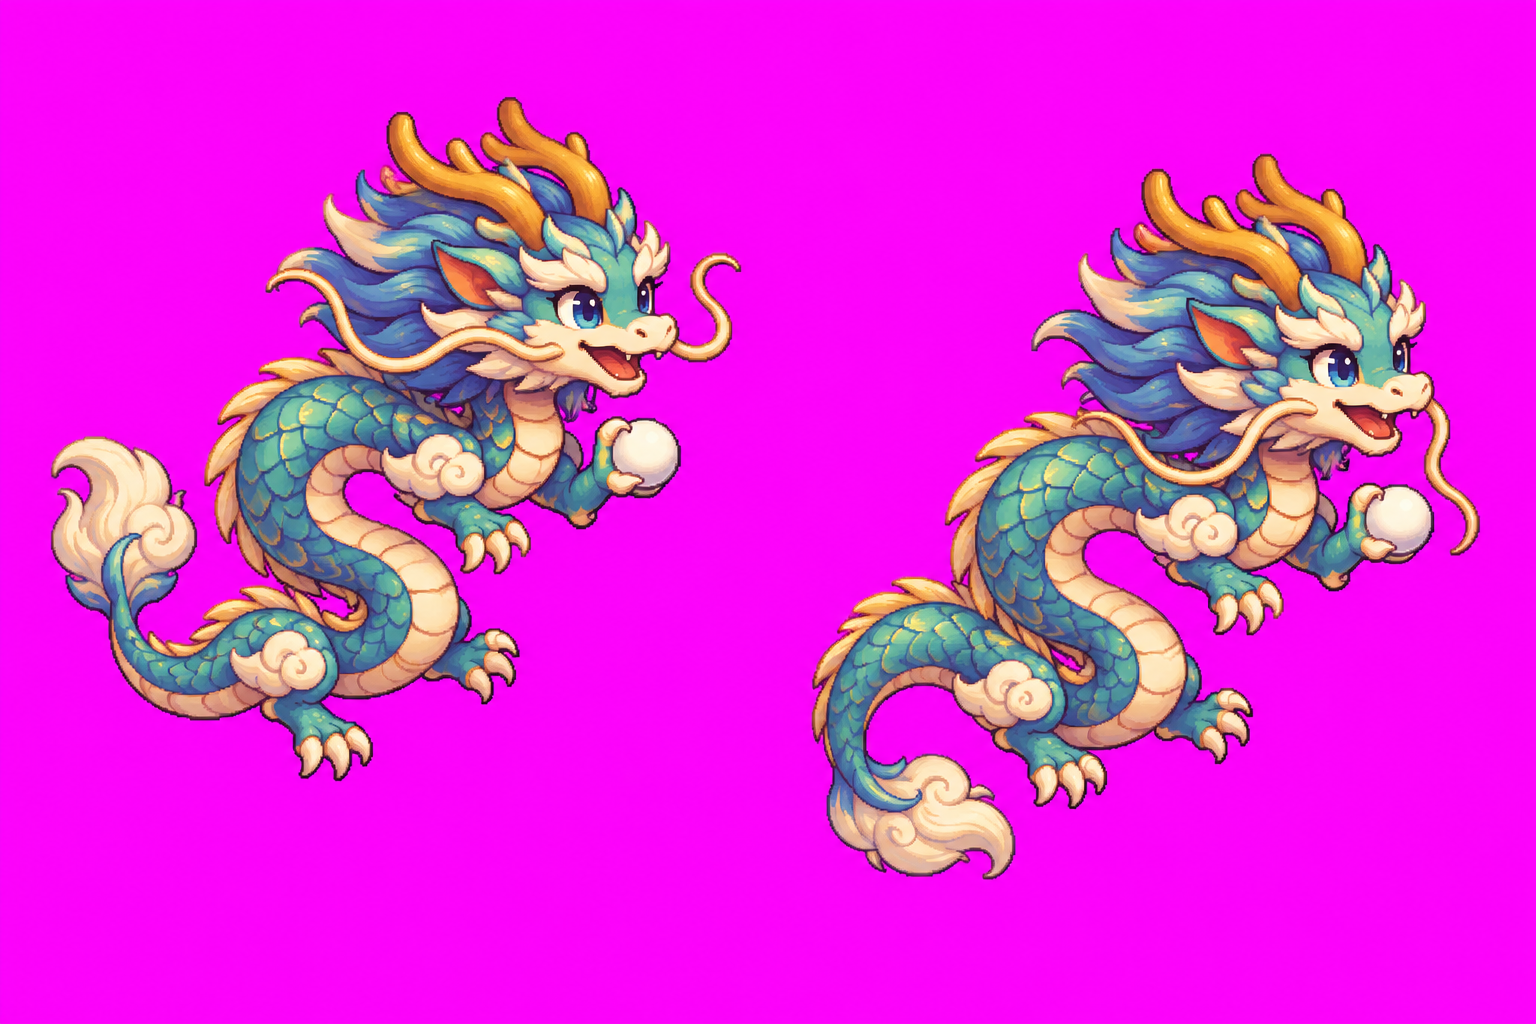
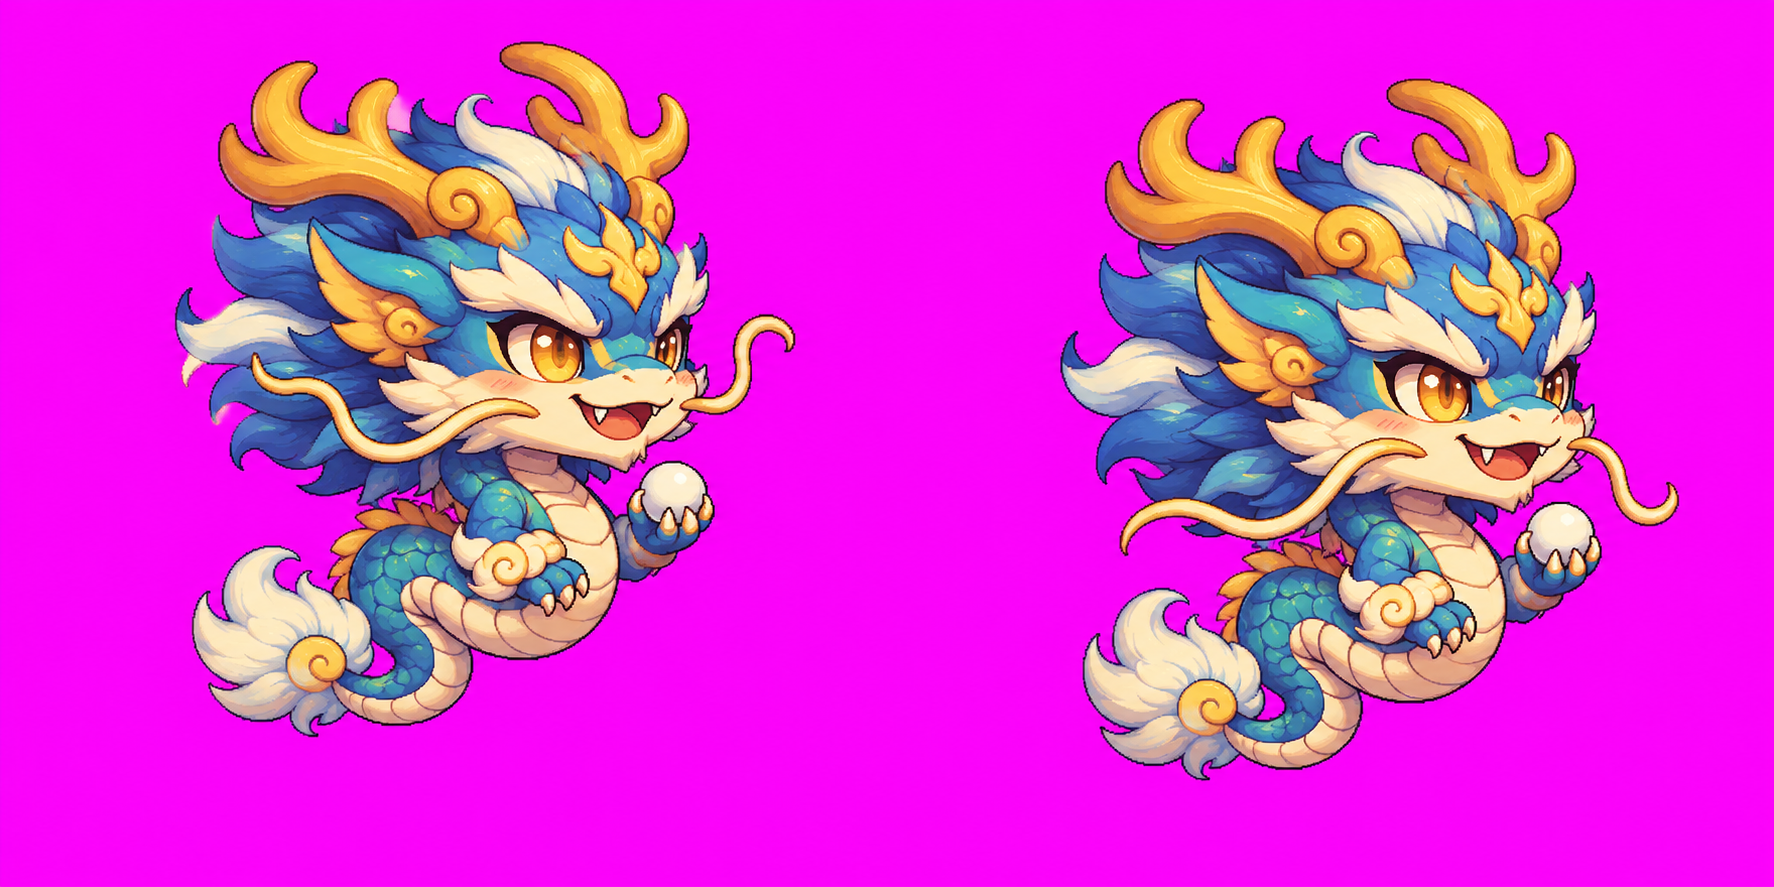
art(batch2): redesign qinglong__stand.png for guardian v2

diff --git a/idle-td-art/batch2/README.md b/idle-td-art/batch2/README.md
@@ -1,6 +1,6 @@
 # 放置塔防第二批點陣圖：工單 B1　神獸 4 隻
 
-狀態：進行中：ChatGPT 神獸 v2 四張站立（已交 1/4）；通過前不畫攻擊
+狀態：進行中：ChatGPT 神獸 v2 四張站立（已交 2/4）；通過前不畫攻擊
 （狀態只會是：待接手／進行中：<誰> <時間>／待驗收／完成通知）
 
 這是新遊戲「放置塔防」**第二批美術（神獸、塔、陣法）**的交接處，負責驗收的是 Claude 討論串「繪製塔防塔、陣法與神獸」。
@@ -116,10 +116,12 @@ GPT 畫歪時可以回它：
 | 檔案 | 實際畫布 | 格數 | 說明 |
 |---|---|---|---|
 | `images/baihu__stand.png` | 1254×1254 | 1 | v2 大頭短身白虎，冰藍神氣眼、一顆小虎牙、王紋、玉飾金環三鈴與風旋毛尾。 |
+| `images/qinglong__stand.png` | 1774×887 | 2 | v2 大頭金角青龍，神氣金眼、短胖 S 形青鱗身體、藍白鬃與小白珠；兩格上下懸浮。 |
 
 原圖 SHA-256：
 
[2 lines of base64/hex data omitted]
 
 ## 意見與待辦
 
